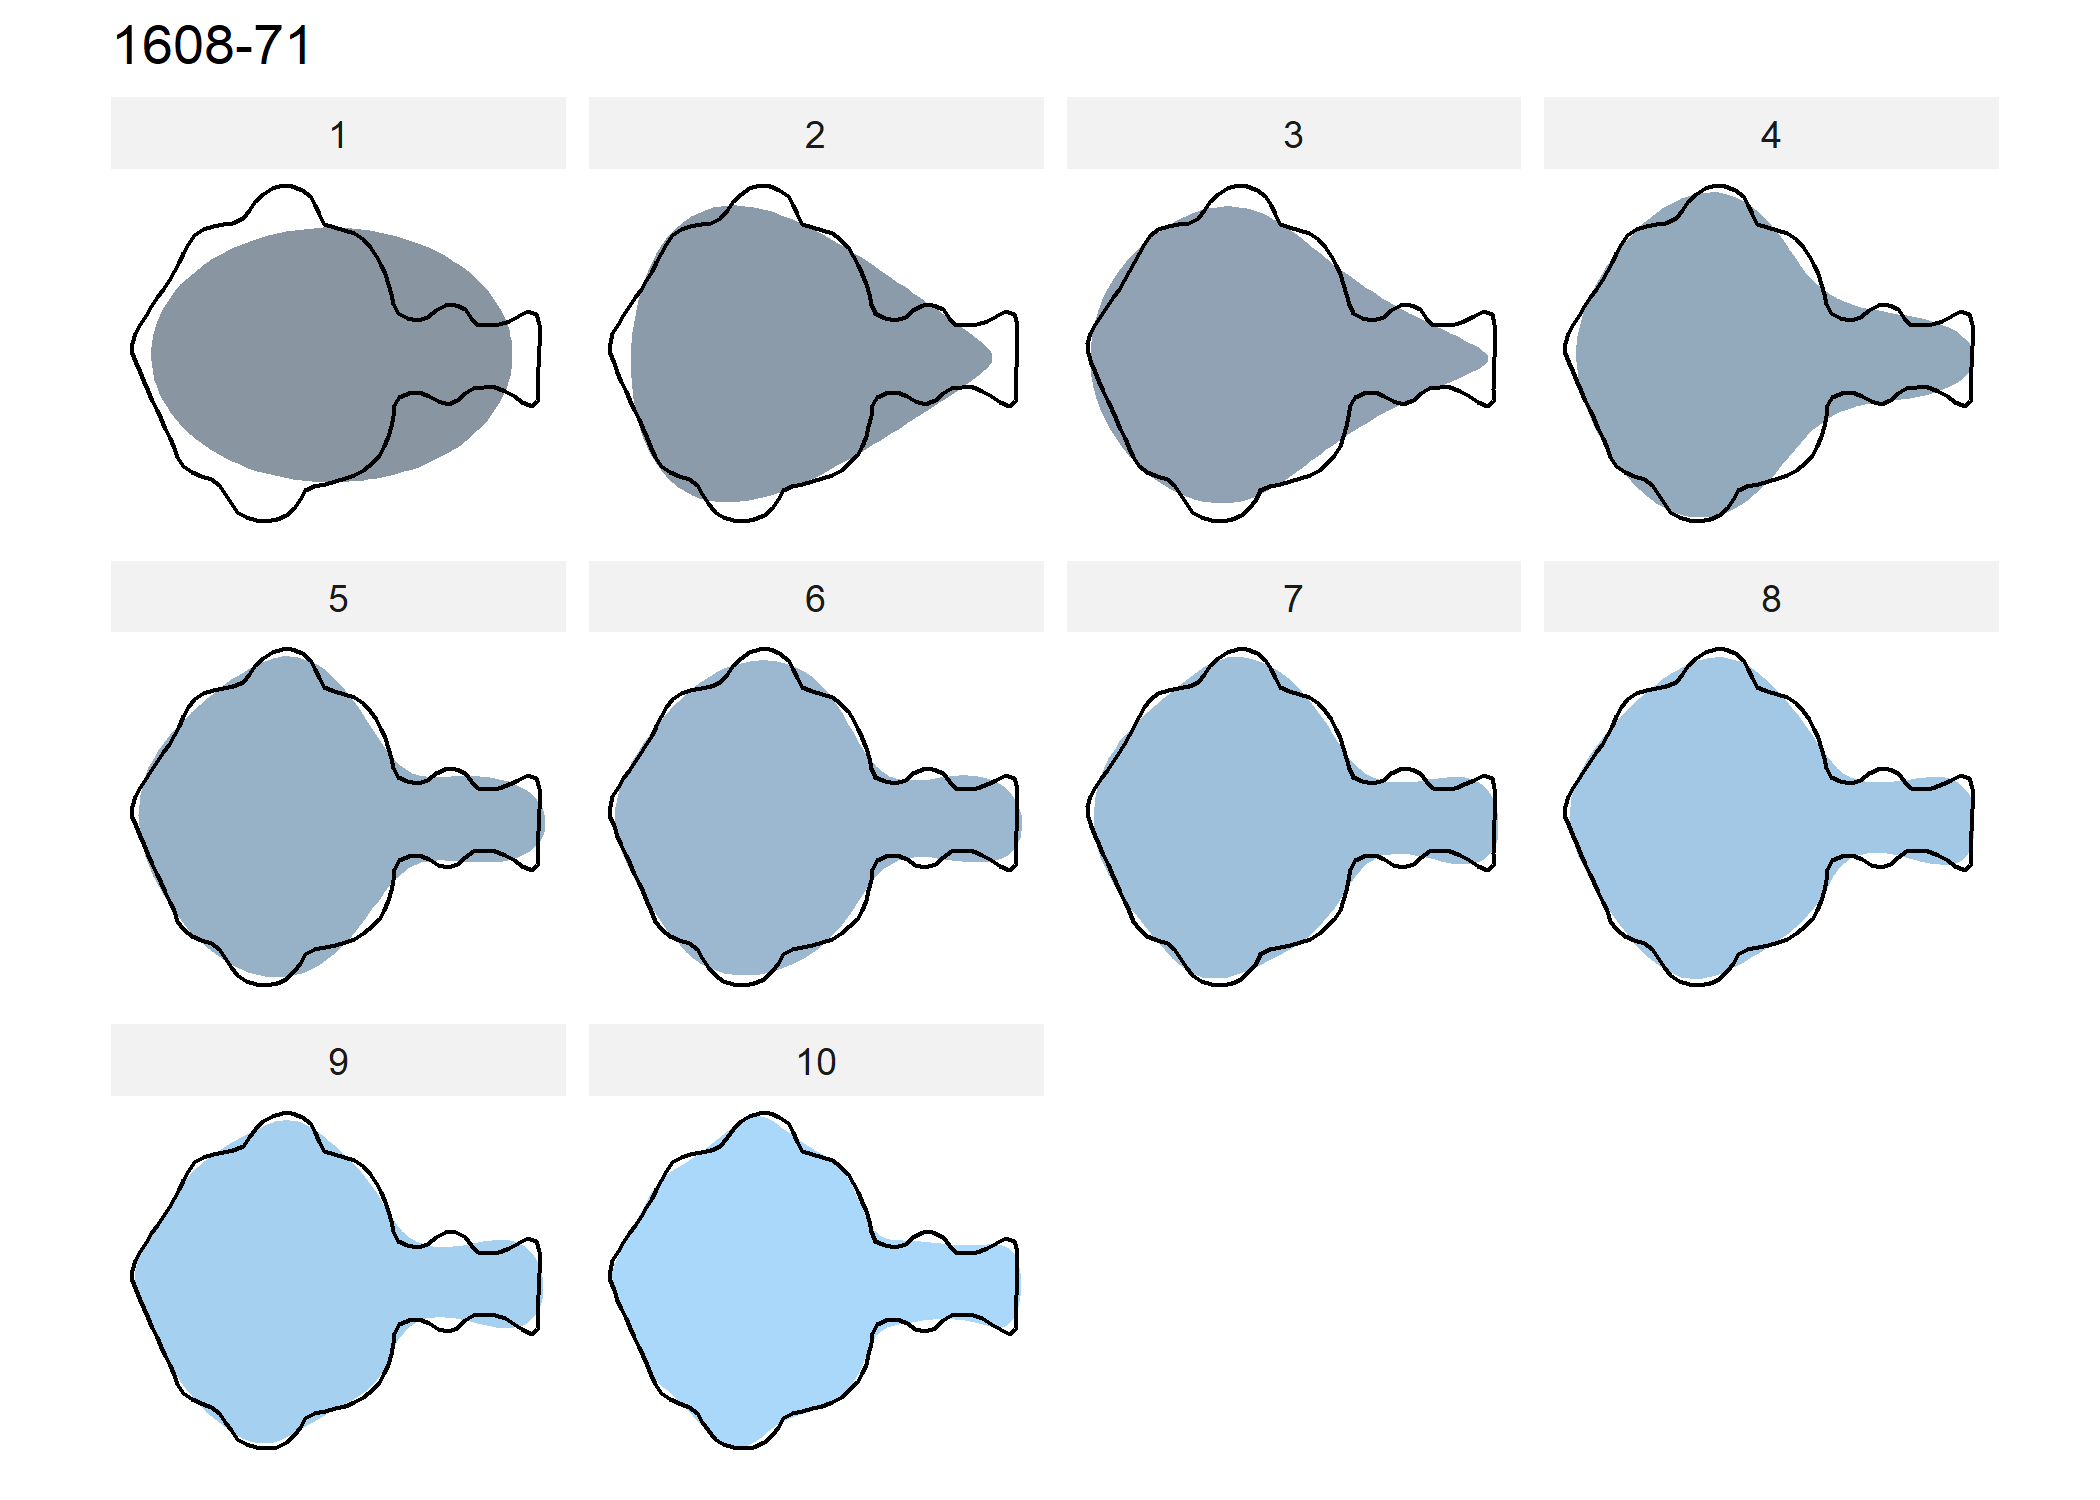
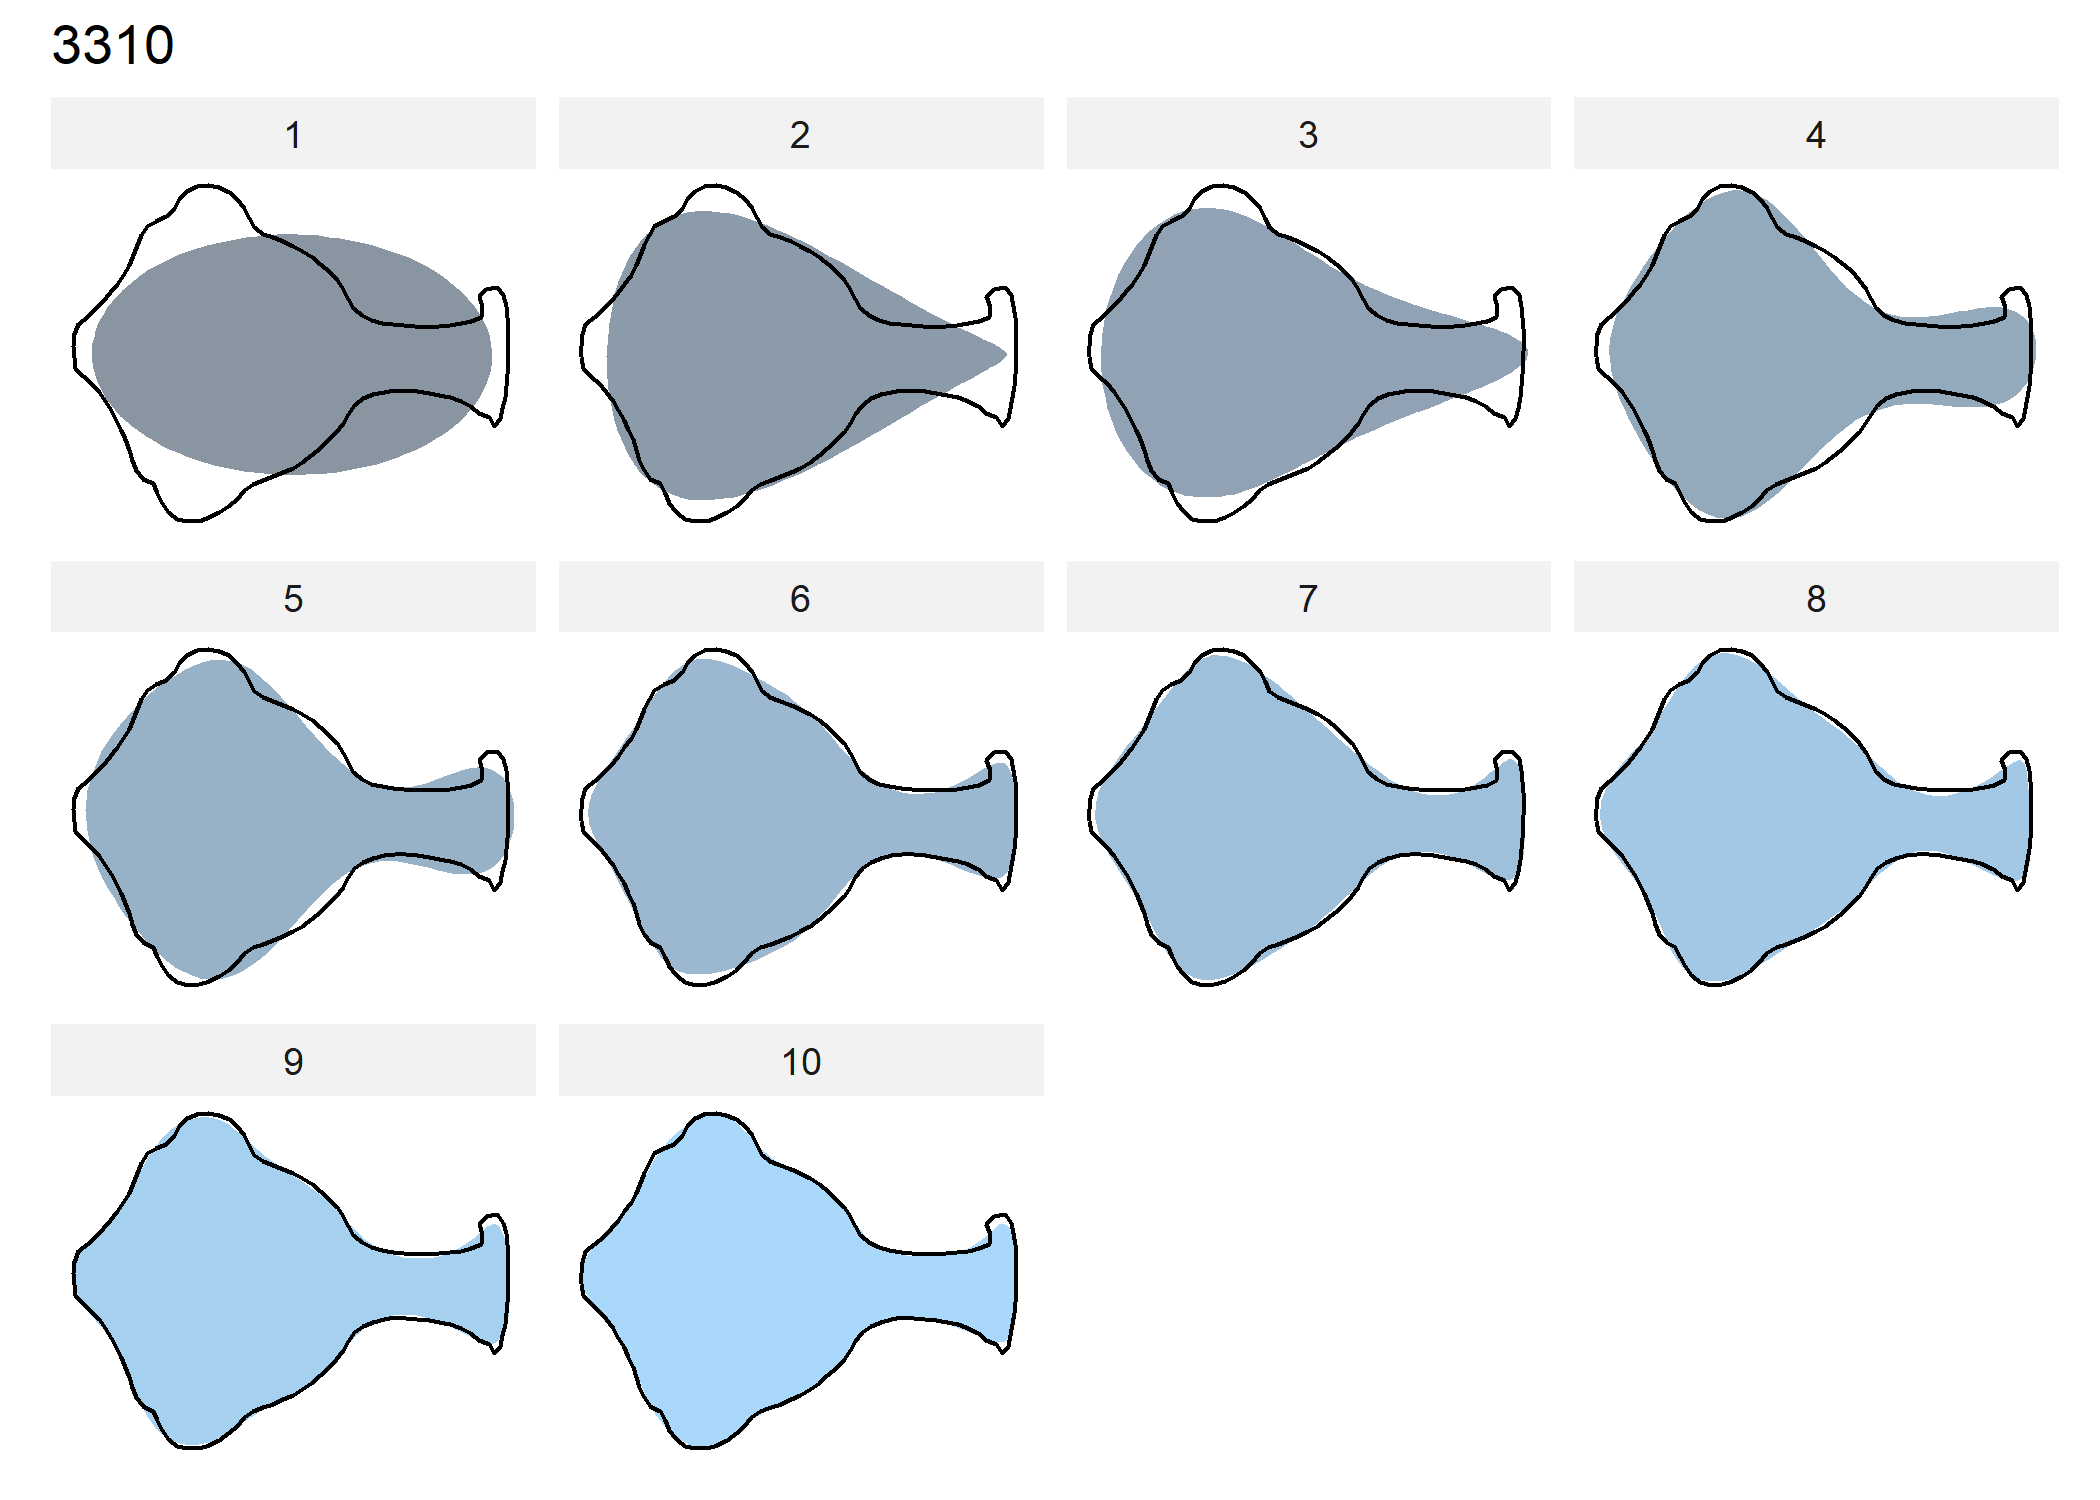
<rev pca>

diff --git a/efa.md b/efa.md
@@ -1,7 +1,7 @@
 Aryballoid bottle shape as a function of burnishing?
 ================
 Robert Z. Selden, Jr.
-15 March, 2021
+14 April, 2021
 
 # Elliptical Fourier Analysis
 
@@ -12,7 +12,7 @@ Robert Z. Selden, Jr.
 library(here)
 ```
 
-    ## here() starts at D:/github/aryballoid
+    ## here() starts at C:/Users/selde/Desktop/github/aryballoid
 
 ``` r
 library(wesanderson)
@@ -69,7 +69,7 @@ outlines <- jpg.list %>%
     ## [ 20 / 21 ]  7072.jpg
     ## [ 21 / 21 ]  X-49.jpg
 
-    ## Done in 6.9 secs
+    ## Done in 6.6 secs
 
 ``` r
 # add attributes
@@ -79,6 +79,7 @@ data.out <- Out(outlines,
 # scale, align, rotate, and center specimens
 norm.outlines <- data.out %>% 
   coo_scale() %>%
+  coo_rotate() %>%
   coo_align() %>% 
   coo_center()
 ```
@@ -219,17 +220,20 @@ scree_plot(pca.outlines)
 
 ``` r
 # plot pca
-plot_PCA(pca.outlines, 
-         morphospace_position = "range",
-         palette = pal_qual_solarized,
-         chullfilled = TRUE,
-         ~burnish,
-         axesnames = TRUE,
-         morphospace = TRUE,
-         eigen = TRUE,
-         center_origin = TRUE,
-         zoom = 1.15)
+plot(pca.outlines,
+     pos.shp = "range_axes",
+     ~burnish,
+     chull = TRUE,
+     morphospace = TRUE,
+     labelsgroups = TRUE,
+     cex.labelsgroups = 0.5,
+     rect.labelsgroups = TRUE,
+     rug = TRUE,
+     grid = TRUE,
+     zoom = 0.95)
 ```
+
+    ## will be deprecated soon, see ?plot_PCA
 
 <img src="efa_files/figure-gfm/pca.plot-2.png" width="100%" />
 
